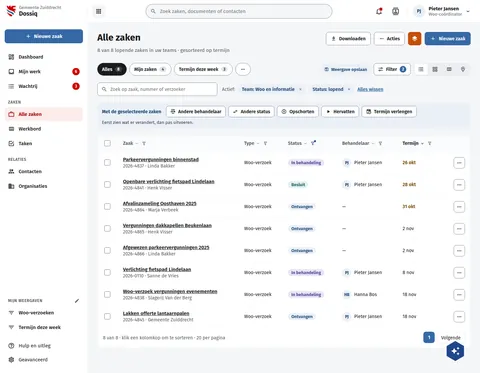
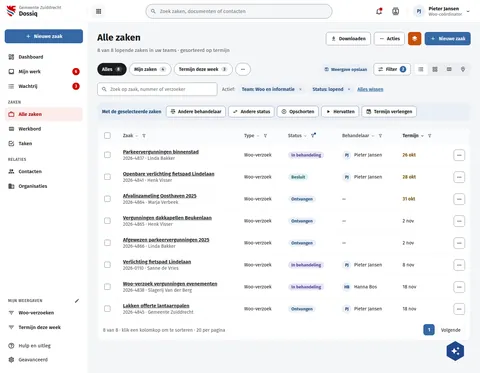
fix(screens): the case lists' bulk band draws no hint line, as decided on 22 Oct (#565)
The band is its lead and its buttons on the index boards (decision 22 Oct,
nextcloud-vue 446b2dbd87 hides the hint in the board look); DqZaken and
DqZakenSorteren still drew "Eerst zien wat er verandert, dan pas
uitvoeren.", on DqZaken as a 23px second line. DqZaken's band is 54px, the
table 20px under it.

Assisted-by: ClaudeCode:claude-opus-5-5

diff --git a/preview/screens/boards/DqZakenSorteren.html b/preview/screens/boards/DqZakenSorteren.html
@@ -186,7 +186,7 @@ a{color:var(--sc-primary, #3669a5)}a:hover{color:var(--sc-primary-deep, #234a78)
           <span style="display: inline-flex; align-items: center; gap: 6px; height: 30px; padding: 0 6px 0 12px; border-radius: 15px; background: var(--sc-primary-light, #eaf0f7); color: var(--sc-primary-deep, #234a78); font-weight: 600">Status: lopend<button type="button" aria-label="Filter verwijderen: Status: lopend" style="width: 22px; height: 22px; border: 0; border-radius: 11px; background: transparent; color: var(--sc-primary-deep, #234a78); display: inline-flex; align-items: center; justify-content: center"><svg width="14" height="14" viewbox="0 0 24 24" fill="currentColor"><path d="M19,6.41L17.59,5L12,10.59L6.41,5L5,6.41L10.59,12L5,17.59L6.41,19L12,13.41L17.59,19L19,17.59L13.41,12L19,6.41Z"></path></svg></button></span>
           <a href="#" style="font-weight: 600">Alles wissen</a>
         </div>
-        <div role="region" aria-label="Acties voor de selectie" style="display: flex; flex-wrap: wrap; gap: 8px; align-items: center; padding: 10px 14px; border-radius: 10px; background: var(--sc-primary-light, #eaf0f7); color: var(--sc-primary-deep, #234a78); font-size: 14px"><strong style="margin-right: 6px">Met de geselecteerde zaken</strong><button type="button" style="display: inline-flex; align-items: center; gap: 8px; height: 34px; padding: 0 12px; border-radius: 8px; font: 600 14px var(--sc-font, 'Fira Sans'), sans-serif; white-space: nowrap; border: 1px solid var(--sc-work-field, #828a95); background: #ffffff; color: var(--sc-work-ink, #1b1c1d)"><svg width="16" height="16" viewbox="0 0 24 24" fill="currentColor" aria-hidden="true"><path d="M16 9C22 9 22 13 22 13V15H16V13C16 13 16 11.31 14.85 9.8C14.68 9.57 14.47 9.35 14.25 9.14C14.77 9.06 15.34 9 16 9M8 11C11.5 11 11.94 12.56 12 13H4C4.06 12.56 4.5 11 8 11M8 9C2 9 2 13 2 13V15H14V13C14 13 14 9 8 9M9 17V19H15V17L18 20L15 23V21H9V23L6 20L9 17M8 3C8.55 3 9 3.45 9 4S8.55 5 8 5 7 4.55 7 4 7.45 3 8 3M8 1C6.34 1 5 2.34 5 4S6.34 7 8 7 11 5.66 11 4 9.66 1 8 1M16 1C14.34 1 13 2.34 13 4S14.34 7 16 7 19 5.66 19 4 17.66 1 16 1Z"></path></svg>Andere behandelaar</button><button type="button" style="display: inline-flex; align-items: center; gap: 8px; height: 34px; padding: 0 12px; border-radius: 8px; font: 600 14px var(--sc-font, 'Fira Sans'), sans-serif; white-space: nowrap; border: 1px solid var(--sc-work-field, #828a95); background: #ffffff; color: var(--sc-work-ink, #1b1c1d)"><svg width="16" height="16" viewbox="0 0 24 24" fill="currentColor" aria-hidden="true"><path d="M21,9L17,5V8H10V10H17V13M7,11L3,15L7,19V16H14V14H7V11Z"></path></svg>Andere status</button><button type="button" style="display: inline-flex; align-items: center; gap: 8px; height: 34px; padding: 0 12px; border-radius: 8px; font: 600 14px var(--sc-font, 'Fira Sans'), sans-serif; white-space: nowrap; border: 1px solid var(--sc-work-field, #828a95); background: #ffffff; color: var(--sc-work-ink, #1b1c1d)"><svg width="16" height="16" viewbox="0 0 24 24" fill="currentColor" aria-hidden="true"><path d="M13,16V8H15V16H13M9,16V8H11V16H9M12,2A10,10 0 0,1 22,12A10,10 0 0,1 12,22A10,10 0 0,1 2,12A10,10 0 0,1 12,2M12,4A8,8 0 0,0 4,12A8,8 0 0,0 12,20A8,8 0 0,0 20,12A8,8 0 0,0 12,4Z"></path></svg>Opschorten</button><button type="button" style="display: inline-flex; align-items: center; gap: 8px; height: 34px; padding: 0 12px; border-radius: 8px; font: 600 14px var(--sc-font, 'Fira Sans'), sans-serif; white-space: nowrap; border: 1px solid var(--sc-work-field, #828a95); background: #ffffff; color: var(--sc-work-ink, #1b1c1d)"><svg width="16" height="16" viewbox="0 0 24 24" fill="currentColor" aria-hidden="true"><path d="M8,5.14V19.14L19,12.14L8,5.14Z"></path></svg>Hervatten</button><button type="button" style="display: inline-flex; align-items: center; gap: 8px; height: 34px; padding: 0 12px; border-radius: 8px; font: 600 14px var(--sc-font, 'Fira Sans'), sans-serif; white-space: nowrap; border: 1px solid var(--sc-work-field, #828a95); background: #ffffff; color: var(--sc-work-ink, #1b1c1d)"><svg width="16" height="16" viewbox="0 0 24 24" fill="currentColor" aria-hidden="true"><path d="M15,13H16.5V15.82L18.94,17.23L18.19,18.53L15,16.69V13M19,8H5V19H9.67C9.24,18.09 9,17.07 9,16A7,7 0 0,1 16,9C17.07,9 18.09,9.24 19,9.67V8M5,21C3.89,21 3,20.1 3,19V5C3,3.89 3.89,3 5,3H6V1H8V3H16V1H18V3H19A2,2 0 0,1 21,5V11.1C22.24,12.36 23,14.09 23,16A7,7 0 0,1 16,23C14.09,23 12.36,22.24 11.1,21H5M16,11.15A4.85,4.85 0 0,0 11.15,16C11.15,18.68 13.32,20.85 16,20.85A4.85,4.85 0 0,0 20.85,16C20.85,13.32 18.68,11.15 16,11.15Z"></path></svg>Termijn verlengen</button><span style="font-size: 13px; color: var(--sc-work-text, #3d4047)">Eerst zien wat er verandert, dan pas uitvoeren.</span></div>
+        <div role="region" aria-label="Acties voor de selectie" style="display: flex; flex-wrap: wrap; gap: 8px; align-items: center; padding: 10px 14px; border-radius: 10px; background: var(--sc-primary-light, #eaf0f7); color: var(--sc-primary-deep, #234a78); font-size: 14px"><strong style="margin-right: 6px">Met de geselecteerde zaken</strong><button type="button" style="display: inline-flex; align-items: center; gap: 8px; height: 34px; padding: 0 12px; border-radius: 8px; font: 600 14px var(--sc-font, 'Fira Sans'), sans-serif; white-space: nowrap; border: 1px solid var(--sc-work-field, #828a95); background: #ffffff; color: var(--sc-work-ink, #1b1c1d)"><svg width="16" height="16" viewbox="0 0 24 24" fill="currentColor" aria-hidden="true"><path d="M16 9C22 9 22 13 22 13V15H16V13C16 13 16 11.31 14.85 9.8C14.68 9.57 14.47 9.35 14.25 9.14C14.77 9.06 15.34 9 16 9M8 11C11.5 11 11.94 12.56 12 13H4C4.06 12.56 4.5 11 8 11M8 9C2 9 2 13 2 13V15H14V13C14 13 14 9 8 9M9 17V19H15V17L18 20L15 23V21H9V23L6 20L9 17M8 3C8.55 3 9 3.45 9 4S8.55 5 8 5 7 4.55 7 4 7.45 3 8 3M8 1C6.34 1 5 2.34 5 4S6.34 7 8 7 11 5.66 11 4 9.66 1 8 1M16 1C14.34 1 13 2.34 13 4S14.34 7 16 7 19 5.66 19 4 17.66 1 16 1Z"></path></svg>Andere behandelaar</button><button type="button" style="display: inline-flex; align-items: center; gap: 8px; height: 34px; padding: 0 12px; border-radius: 8px; font: 600 14px var(--sc-font, 'Fira Sans'), sans-serif; white-space: nowrap; border: 1px solid var(--sc-work-field, #828a95); background: #ffffff; color: var(--sc-work-ink, #1b1c1d)"><svg width="16" height="16" viewbox="0 0 24 24" fill="currentColor" aria-hidden="true"><path d="M21,9L17,5V8H10V10H17V13M7,11L3,15L7,19V16H14V14H7V11Z"></path></svg>Andere status</button><button type="button" style="display: inline-flex; align-items: center; gap: 8px; height: 34px; padding: 0 12px; border-radius: 8px; font: 600 14px var(--sc-font, 'Fira Sans'), sans-serif; white-space: nowrap; border: 1px solid var(--sc-work-field, #828a95); background: #ffffff; color: var(--sc-work-ink, #1b1c1d)"><svg width="16" height="16" viewbox="0 0 24 24" fill="currentColor" aria-hidden="true"><path d="M13,16V8H15V16H13M9,16V8H11V16H9M12,2A10,10 0 0,1 22,12A10,10 0 0,1 12,22A10,10 0 0,1 2,12A10,10 0 0,1 12,2M12,4A8,8 0 0,0 4,12A8,8 0 0,0 12,20A8,8 0 0,0 20,12A8,8 0 0,0 12,4Z"></path></svg>Opschorten</button><button type="button" style="display: inline-flex; align-items: center; gap: 8px; height: 34px; padding: 0 12px; border-radius: 8px; font: 600 14px var(--sc-font, 'Fira Sans'), sans-serif; white-space: nowrap; border: 1px solid var(--sc-work-field, #828a95); background: #ffffff; color: var(--sc-work-ink, #1b1c1d)"><svg width="16" height="16" viewbox="0 0 24 24" fill="currentColor" aria-hidden="true"><path d="M8,5.14V19.14L19,12.14L8,5.14Z"></path></svg>Hervatten</button><button type="button" style="display: inline-flex; align-items: center; gap: 8px; height: 34px; padding: 0 12px; border-radius: 8px; font: 600 14px var(--sc-font, 'Fira Sans'), sans-serif; white-space: nowrap; border: 1px solid var(--sc-work-field, #828a95); background: #ffffff; color: var(--sc-work-ink, #1b1c1d)"><svg width="16" height="16" viewbox="0 0 24 24" fill="currentColor" aria-hidden="true"><path d="M15,13H16.5V15.82L18.94,17.23L18.19,18.53L15,16.69V13M19,8H5V19H9.67C9.24,18.09 9,17.07 9,16A7,7 0 0,1 16,9C17.07,9 18.09,9.24 19,9.67V8M5,21C3.89,21 3,20.1 3,19V5C3,3.89 3.89,3 5,3H6V1H8V3H16V1H18V3H19A2,2 0 0,1 21,5V11.1C22.24,12.36 23,14.09 23,16A7,7 0 0,1 16,23C14.09,23 12.36,22.24 11.1,21H5M16,11.15A4.85,4.85 0 0,0 11.15,16C11.15,18.68 13.32,20.85 16,20.85A4.85,4.85 0 0,0 20.85,16C20.85,13.32 18.68,11.15 16,11.15Z"></path></svg>Termijn verlengen</button></div>
         <div style="display: grid; grid-template-columns: repeat(auto-fill, minmax(240px, 1fr)); gap: 16px">
           
             <article style="background: #ffffff; border: 1px solid var(--sc-work-line, #e4e6ea); border-radius: 12px; padding: 20px 22px; display: flex; flex-direction: column; gap: 10px">

diff --git a/preview/screens/boards/DqZaken.html b/preview/screens/boards/DqZaken.html
@@ -186,7 +186,7 @@ a{color:var(--sc-primary, #3669a5)}a:hover{color:var(--sc-primary-deep, #234a78)
           <span style="display: inline-flex; align-items: center; gap: 6px; height: 30px; padding: 0 6px 0 12px; border-radius: 15px; background: var(--sc-primary-light, #eaf0f7); color: var(--sc-primary-deep, #234a78); font-weight: 600">Status: lopend<button type="button" aria-label="Filter verwijderen: Status: lopend" style="width: 22px; height: 22px; border: 0; border-radius: 11px; background: transparent; color: var(--sc-primary-deep, #234a78); display: inline-flex; align-items: center; justify-content: center"><svg width="14" height="14" viewbox="0 0 24 24" fill="currentColor"><path d="M19,6.41L17.59,5L12,10.59L6.41,5L5,6.41L10.59,12L5,17.59L6.41,19L12,13.41L17.59,19L19,17.59L13.41,12L19,6.41Z"></path></svg></button></span>
           <a href="#" style="font-weight: 600">Alles wissen</a>
         </div>
-        <div role="region" aria-label="Acties voor de selectie" style="display: flex; flex-wrap: wrap; gap: 8px; align-items: center; padding: 10px 14px; border-radius: 10px; background: var(--sc-primary-light, #eaf0f7); color: var(--sc-primary-deep, #234a78); font-size: 14px"><strong style="margin-right: 6px">Met de geselecteerde zaken</strong><button type="button" style="display: inline-flex; align-items: center; gap: 8px; height: 34px; padding: 0 12px; border-radius: 8px; font: 600 14px var(--sc-font, 'Fira Sans'), sans-serif; white-space: nowrap; border: 1px solid var(--sc-work-field, #828a95); background: #ffffff; color: var(--sc-work-ink, #1b1c1d)"><svg width="16" height="16" viewbox="0 0 24 24" fill="currentColor" aria-hidden="true"><path d="M16 9C22 9 22 13 22 13V15H16V13C16 13 16 11.31 14.85 9.8C14.68 9.57 14.47 9.35 14.25 9.14C14.77 9.06 15.34 9 16 9M8 11C11.5 11 11.94 12.56 12 13H4C4.06 12.56 4.5 11 8 11M8 9C2 9 2 13 2 13V15H14V13C14 13 14 9 8 9M9 17V19H15V17L18 20L15 23V21H9V23L6 20L9 17M8 3C8.55 3 9 3.45 9 4S8.55 5 8 5 7 4.55 7 4 7.45 3 8 3M8 1C6.34 1 5 2.34 5 4S6.34 7 8 7 11 5.66 11 4 9.66 1 8 1M16 1C14.34 1 13 2.34 13 4S14.34 7 16 7 19 5.66 19 4 17.66 1 16 1Z"></path></svg>Andere behandelaar</button><button type="button" style="display: inline-flex; align-items: center; gap: 8px; height: 34px; padding: 0 12px; border-radius: 8px; font: 600 14px var(--sc-font, 'Fira Sans'), sans-serif; white-space: nowrap; border: 1px solid var(--sc-work-field, #828a95); background: #ffffff; color: var(--sc-work-ink, #1b1c1d)"><svg width="16" height="16" viewbox="0 0 24 24" fill="currentColor" aria-hidden="true"><path d="M21,9L17,5V8H10V10H17V13M7,11L3,15L7,19V16H14V14H7V11Z"></path></svg>Andere status</button><button type="button" style="display: inline-flex; align-items: center; gap: 8px; height: 34px; padding: 0 12px; border-radius: 8px; font: 600 14px var(--sc-font, 'Fira Sans'), sans-serif; white-space: nowrap; border: 1px solid var(--sc-work-field, #828a95); background: #ffffff; color: var(--sc-work-ink, #1b1c1d)"><svg width="16" height="16" viewbox="0 0 24 24" fill="currentColor" aria-hidden="true"><path d="M13,16V8H15V16H13M9,16V8H11V16H9M12,2A10,10 0 0,1 22,12A10,10 0 0,1 12,22A10,10 0 0,1 2,12A10,10 0 0,1 12,2M12,4A8,8 0 0,0 4,12A8,8 0 0,0 12,20A8,8 0 0,0 20,12A8,8 0 0,0 12,4Z"></path></svg>Opschorten</button><button type="button" style="display: inline-flex; align-items: center; gap: 8px; height: 34px; padding: 0 12px; border-radius: 8px; font: 600 14px var(--sc-font, 'Fira Sans'), sans-serif; white-space: nowrap; border: 1px solid var(--sc-work-field, #828a95); background: #ffffff; color: var(--sc-work-ink, #1b1c1d)"><svg width="16" height="16" viewbox="0 0 24 24" fill="currentColor" aria-hidden="true"><path d="M8,5.14V19.14L19,12.14L8,5.14Z"></path></svg>Hervatten</button><button type="button" style="display: inline-flex; align-items: center; gap: 8px; height: 34px; padding: 0 12px; border-radius: 8px; font: 600 14px var(--sc-font, 'Fira Sans'), sans-serif; white-space: nowrap; border: 1px solid var(--sc-work-field, #828a95); background: #ffffff; color: var(--sc-work-ink, #1b1c1d)"><svg width="16" height="16" viewbox="0 0 24 24" fill="currentColor" aria-hidden="true"><path d="M15,13H16.5V15.82L18.94,17.23L18.19,18.53L15,16.69V13M19,8H5V19H9.67C9.24,18.09 9,17.07 9,16A7,7 0 0,1 16,9C17.07,9 18.09,9.24 19,9.67V8M5,21C3.89,21 3,20.1 3,19V5C3,3.89 3.89,3 5,3H6V1H8V3H16V1H18V3H19A2,2 0 0,1 21,5V11.1C22.24,12.36 23,14.09 23,16A7,7 0 0,1 16,23C14.09,23 12.36,22.24 11.1,21H5M16,11.15A4.85,4.85 0 0,0 11.15,16C11.15,18.68 13.32,20.85 16,20.85A4.85,4.85 0 0,0 20.85,16C20.85,13.32 18.68,11.15 16,11.15Z"></path></svg>Termijn verlengen</button><span style="font-size: 13px; color: var(--sc-work-text, #3d4047)">Eerst zien wat er verandert, dan pas uitvoeren.</span></div>
+        <div role="region" aria-label="Acties voor de selectie" style="display: flex; flex-wrap: wrap; gap: 8px; align-items: center; padding: 10px 14px; border-radius: 10px; background: var(--sc-primary-light, #eaf0f7); color: var(--sc-primary-deep, #234a78); font-size: 14px"><strong style="margin-right: 6px">Met de geselecteerde zaken</strong><button type="button" style="display: inline-flex; align-items: center; gap: 8px; height: 34px; padding: 0 12px; border-radius: 8px; font: 600 14px var(--sc-font, 'Fira Sans'), sans-serif; white-space: nowrap; border: 1px solid var(--sc-work-field, #828a95); background: #ffffff; color: var(--sc-work-ink, #1b1c1d)"><svg width="16" height="16" viewbox="0 0 24 24" fill="currentColor" aria-hidden="true"><path d="M16 9C22 9 22 13 22 13V15H16V13C16 13 16 11.31 14.85 9.8C14.68 9.57 14.47 9.35 14.25 9.14C14.77 9.06 15.34 9 16 9M8 11C11.5 11 11.94 12.56 12 13H4C4.06 12.56 4.5 11 8 11M8 9C2 9 2 13 2 13V15H14V13C14 13 14 9 8 9M9 17V19H15V17L18 20L15 23V21H9V23L6 20L9 17M8 3C8.55 3 9 3.45 9 4S8.55 5 8 5 7 4.55 7 4 7.45 3 8 3M8 1C6.34 1 5 2.34 5 4S6.34 7 8 7 11 5.66 11 4 9.66 1 8 1M16 1C14.34 1 13 2.34 13 4S14.34 7 16 7 19 5.66 19 4 17.66 1 16 1Z"></path></svg>Andere behandelaar</button><button type="button" style="display: inline-flex; align-items: center; gap: 8px; height: 34px; padding: 0 12px; border-radius: 8px; font: 600 14px var(--sc-font, 'Fira Sans'), sans-serif; white-space: nowrap; border: 1px solid var(--sc-work-field, #828a95); background: #ffffff; color: var(--sc-work-ink, #1b1c1d)"><svg width="16" height="16" viewbox="0 0 24 24" fill="currentColor" aria-hidden="true"><path d="M21,9L17,5V8H10V10H17V13M7,11L3,15L7,19V16H14V14H7V11Z"></path></svg>Andere status</button><button type="button" style="display: inline-flex; align-items: center; gap: 8px; height: 34px; padding: 0 12px; border-radius: 8px; font: 600 14px var(--sc-font, 'Fira Sans'), sans-serif; white-space: nowrap; border: 1px solid var(--sc-work-field, #828a95); background: #ffffff; color: var(--sc-work-ink, #1b1c1d)"><svg width="16" height="16" viewbox="0 0 24 24" fill="currentColor" aria-hidden="true"><path d="M13,16V8H15V16H13M9,16V8H11V16H9M12,2A10,10 0 0,1 22,12A10,10 0 0,1 12,22A10,10 0 0,1 2,12A10,10 0 0,1 12,2M12,4A8,8 0 0,0 4,12A8,8 0 0,0 12,20A8,8 0 0,0 20,12A8,8 0 0,0 12,4Z"></path></svg>Opschorten</button><button type="button" style="display: inline-flex; align-items: center; gap: 8px; height: 34px; padding: 0 12px; border-radius: 8px; font: 600 14px var(--sc-font, 'Fira Sans'), sans-serif; white-space: nowrap; border: 1px solid var(--sc-work-field, #828a95); background: #ffffff; color: var(--sc-work-ink, #1b1c1d)"><svg width="16" height="16" viewbox="0 0 24 24" fill="currentColor" aria-hidden="true"><path d="M8,5.14V19.14L19,12.14L8,5.14Z"></path></svg>Hervatten</button><button type="button" style="display: inline-flex; align-items: center; gap: 8px; height: 34px; padding: 0 12px; border-radius: 8px; font: 600 14px var(--sc-font, 'Fira Sans'), sans-serif; white-space: nowrap; border: 1px solid var(--sc-work-field, #828a95); background: #ffffff; color: var(--sc-work-ink, #1b1c1d)"><svg width="16" height="16" viewbox="0 0 24 24" fill="currentColor" aria-hidden="true"><path d="M15,13H16.5V15.82L18.94,17.23L18.19,18.53L15,16.69V13M19,8H5V19H9.67C9.24,18.09 9,17.07 9,16A7,7 0 0,1 16,9C17.07,9 18.09,9.24 19,9.67V8M5,21C3.89,21 3,20.1 3,19V5C3,3.89 3.89,3 5,3H6V1H8V3H16V1H18V3H19A2,2 0 0,1 21,5V11.1C22.24,12.36 23,14.09 23,16A7,7 0 0,1 16,23C14.09,23 12.36,22.24 11.1,21H5M16,11.15A4.85,4.85 0 0,0 11.15,16C11.15,18.68 13.32,20.85 16,20.85A4.85,4.85 0 0,0 20.85,16C20.85,13.32 18.68,11.15 16,11.15Z"></path></svg>Termijn verlengen</button></div>
         <div style="background: #ffffff; border: 1px solid var(--sc-work-line, #e4e6ea); border-radius: 12px; overflow: hidden">
           <div style="overflow-x: auto">
             <table style="border-collapse: collapse; width: 100%; min-width: 860px; font-size: 14px">

diff --git a/screens-src/zuiddrecht/DqZakenSorteren.dc.html b/screens-src/zuiddrecht/DqZakenSorteren.dc.html
@@ -58,7 +58,7 @@ a{color:#3669a5}a:hover{color:#234a78}
           <span style="display: inline-flex; align-items: center; gap: 6px; height: 30px; padding: 0 6px 0 12px; border-radius: 15px; background: #eaf0f7; color: #234a78; font-weight: 600">Status: lopend<button type="button" aria-label="Filter verwijderen: Status: lopend" style="width: 22px; height: 22px; border: 0; border-radius: 11px; background: transparent; color: #234a78; display: inline-flex; align-items: center; justify-content: center"><svg width="14" height="14" viewBox="0 0 24 24" fill="currentColor"><path d="M19,6.41L17.59,5L12,10.59L6.41,5L5,6.41L10.59,12L5,17.59L6.41,19L12,13.41L17.59,19L19,17.59L13.41,12L19,6.41Z"></path></svg></button></span>
           <a href="#" style="font-weight: 600">Alles wissen</a>
         </div>
-        <div role="region" aria-label="Acties voor de selectie" style="display: flex; flex-wrap: wrap; gap: 8px; align-items: center; padding: 10px 14px; border-radius: 10px; background: #eaf0f7; color: #234a78; font-size: 14px"><strong style="margin-right: 6px">Met de geselecteerde zaken</strong><button type="button" style="display: inline-flex; align-items: center; gap: 8px; height: 34px; padding: 0 12px; border-radius: 8px; font: 600 14px 'Fira Sans', sans-serif; white-space: nowrap; border: 1px solid #828a95; background: #ffffff; color: #1b1c1d"><svg width="16" height="16" viewBox="0 0 24 24" fill="currentColor" aria-hidden="true"><path d="M16 9C22 9 22 13 22 13V15H16V13C16 13 16 11.31 14.85 9.8C14.68 9.57 14.47 9.35 14.25 9.14C14.77 9.06 15.34 9 16 9M8 11C11.5 11 11.94 12.56 12 13H4C4.06 12.56 4.5 11 8 11M8 9C2 9 2 13 2 13V15H14V13C14 13 14 9 8 9M9 17V19H15V17L18 20L15 23V21H9V23L6 20L9 17M8 3C8.55 3 9 3.45 9 4S8.55 5 8 5 7 4.55 7 4 7.45 3 8 3M8 1C6.34 1 5 2.34 5 4S6.34 7 8 7 11 5.66 11 4 9.66 1 8 1M16 1C14.34 1 13 2.34 13 4S14.34 7 16 7 19 5.66 19 4 17.66 1 16 1Z"></path></svg>Andere behandelaar</button><button type="button" style="display: inline-flex; align-items: center; gap: 8px; height: 34px; padding: 0 12px; border-radius: 8px; font: 600 14px 'Fira Sans', sans-serif; white-space: nowrap; border: 1px solid #828a95; background: #ffffff; color: #1b1c1d"><svg width="16" height="16" viewBox="0 0 24 24" fill="currentColor" aria-hidden="true"><path d="M21,9L17,5V8H10V10H17V13M7,11L3,15L7,19V16H14V14H7V11Z"></path></svg>Andere status</button><button type="button" style="display: inline-flex; align-items: center; gap: 8px; height: 34px; padding: 0 12px; border-radius: 8px; font: 600 14px 'Fira Sans', sans-serif; white-space: nowrap; border: 1px solid #828a95; background: #ffffff; color: #1b1c1d"><svg width="16" height="16" viewBox="0 0 24 24" fill="currentColor" aria-hidden="true"><path d="M13,16V8H15V16H13M9,16V8H11V16H9M12,2A10,10 0 0,1 22,12A10,10 0 0,1 12,22A10,10 0 0,1 2,12A10,10 0 0,1 12,2M12,4A8,8 0 0,0 4,12A8,8 0 0,0 12,20A8,8 0 0,0 20,12A8,8 0 0,0 12,4Z"></path></svg>Opschorten</button><button type="button" style="display: inline-flex; align-items: center; gap: 8px; height: 34px; padding: 0 12px; border-radius: 8px; font: 600 14px 'Fira Sans', sans-serif; white-space: nowrap; border: 1px solid #828a95; background: #ffffff; color: #1b1c1d"><svg width="16" height="16" viewBox="0 0 24 24" fill="currentColor" aria-hidden="true"><path d="M8,5.14V19.14L19,12.14L8,5.14Z"></path></svg>Hervatten</button><button type="button" style="display: inline-flex; align-items: center; gap: 8px; height: 34px; padding: 0 12px; border-radius: 8px; font: 600 14px 'Fira Sans', sans-serif; white-space: nowrap; border: 1px solid #828a95; background: #ffffff; color: #1b1c1d"><svg width="16" height="16" viewBox="0 0 24 24" fill="currentColor" aria-hidden="true"><path d="M15,13H16.5V15.82L18.94,17.23L18.19,18.53L15,16.69V13M19,8H5V19H9.67C9.24,18.09 9,17.07 9,16A7,7 0 0,1 16,9C17.07,9 18.09,9.24 19,9.67V8M5,21C3.89,21 3,20.1 3,19V5C3,3.89 3.89,3 5,3H6V1H8V3H16V1H18V3H19A2,2 0 0,1 21,5V11.1C22.24,12.36 23,14.09 23,16A7,7 0 0,1 16,23C14.09,23 12.36,22.24 11.1,21H5M16,11.15A4.85,4.85 0 0,0 11.15,16C11.15,18.68 13.32,20.85 16,20.85A4.85,4.85 0 0,0 20.85,16C20.85,13.32 18.68,11.15 16,11.15Z"></path></svg>Termijn verlengen</button><span style="font-size: 13px; color: #3d4047">Eerst zien wat er verandert, dan pas uitvoeren.</span></div>
+        <div role="region" aria-label="Acties voor de selectie" style="display: flex; flex-wrap: wrap; gap: 8px; align-items: center; padding: 10px 14px; border-radius: 10px; background: #eaf0f7; color: #234a78; font-size: 14px"><strong style="margin-right: 6px">Met de geselecteerde zaken</strong><button type="button" style="display: inline-flex; align-items: center; gap: 8px; height: 34px; padding: 0 12px; border-radius: 8px; font: 600 14px 'Fira Sans', sans-serif; white-space: nowrap; border: 1px solid #828a95; background: #ffffff; color: #1b1c1d"><svg width="16" height="16" viewBox="0 0 24 24" fill="currentColor" aria-hidden="true"><path d="M16 9C22 9 22 13 22 13V15H16V13C16 13 16 11.31 14.85 9.8C14.68 9.57 14.47 9.35 14.25 9.14C14.77 9.06 15.34 9 16 9M8 11C11.5 11 11.94 12.56 12 13H4C4.06 12.56 4.5 11 8 11M8 9C2 9 2 13 2 13V15H14V13C14 13 14 9 8 9M9 17V19H15V17L18 20L15 23V21H9V23L6 20L9 17M8 3C8.55 3 9 3.45 9 4S8.55 5 8 5 7 4.55 7 4 7.45 3 8 3M8 1C6.34 1 5 2.34 5 4S6.34 7 8 7 11 5.66 11 4 9.66 1 8 1M16 1C14.34 1 13 2.34 13 4S14.34 7 16 7 19 5.66 19 4 17.66 1 16 1Z"></path></svg>Andere behandelaar</button><button type="button" style="display: inline-flex; align-items: center; gap: 8px; height: 34px; padding: 0 12px; border-radius: 8px; font: 600 14px 'Fira Sans', sans-serif; white-space: nowrap; border: 1px solid #828a95; background: #ffffff; color: #1b1c1d"><svg width="16" height="16" viewBox="0 0 24 24" fill="currentColor" aria-hidden="true"><path d="M21,9L17,5V8H10V10H17V13M7,11L3,15L7,19V16H14V14H7V11Z"></path></svg>Andere status</button><button type="button" style="display: inline-flex; align-items: center; gap: 8px; height: 34px; padding: 0 12px; border-radius: 8px; font: 600 14px 'Fira Sans', sans-serif; white-space: nowrap; border: 1px solid #828a95; background: #ffffff; color: #1b1c1d"><svg width="16" height="16" viewBox="0 0 24 24" fill="currentColor" aria-hidden="true"><path d="M13,16V8H15V16H13M9,16V8H11V16H9M12,2A10,10 0 0,1 22,12A10,10 0 0,1 12,22A10,10 0 0,1 2,12A10,10 0 0,1 12,2M12,4A8,8 0 0,0 4,12A8,8 0 0,0 12,20A8,8 0 0,0 20,12A8,8 0 0,0 12,4Z"></path></svg>Opschorten</button><button type="button" style="display: inline-flex; align-items: center; gap: 8px; height: 34px; padding: 0 12px; border-radius: 8px; font: 600 14px 'Fira Sans', sans-serif; white-space: nowrap; border: 1px solid #828a95; background: #ffffff; color: #1b1c1d"><svg width="16" height="16" viewBox="0 0 24 24" fill="currentColor" aria-hidden="true"><path d="M8,5.14V19.14L19,12.14L8,5.14Z"></path></svg>Hervatten</button><button type="button" style="display: inline-flex; align-items: center; gap: 8px; height: 34px; padding: 0 12px; border-radius: 8px; font: 600 14px 'Fira Sans', sans-serif; white-space: nowrap; border: 1px solid #828a95; background: #ffffff; color: #1b1c1d"><svg width="16" height="16" viewBox="0 0 24 24" fill="currentColor" aria-hidden="true"><path d="M15,13H16.5V15.82L18.94,17.23L18.19,18.53L15,16.69V13M19,8H5V19H9.67C9.24,18.09 9,17.07 9,16A7,7 0 0,1 16,9C17.07,9 18.09,9.24 19,9.67V8M5,21C3.89,21 3,20.1 3,19V5C3,3.89 3.89,3 5,3H6V1H8V3H16V1H18V3H19A2,2 0 0,1 21,5V11.1C22.24,12.36 23,14.09 23,16A7,7 0 0,1 16,23C14.09,23 12.36,22.24 11.1,21H5M16,11.15A4.85,4.85 0 0,0 11.15,16C11.15,18.68 13.32,20.85 16,20.85A4.85,4.85 0 0,0 20.85,16C20.85,13.32 18.68,11.15 16,11.15Z"></path></svg>Termijn verlengen</button></div>
         <div style="display: grid; grid-template-columns: repeat(auto-fill, minmax(240px, 1fr)); gap: 16px">
           <sc-for list="{{ rows }}" as="r" hint-placeholder-count="8">
             <article style="background: #ffffff; border: 1px solid #e4e6ea; border-radius: 12px; padding: 20px 22px; display: flex; flex-direction: column; gap: 10px">

diff --git a/screens-src/zuiddrecht/DqZaken.dc.html b/screens-src/zuiddrecht/DqZaken.dc.html
@@ -58,7 +58,7 @@ a{color:#3669a5}a:hover{color:#234a78}
           <span style="display: inline-flex; align-items: center; gap: 6px; height: 30px; padding: 0 6px 0 12px; border-radius: 15px; background: #eaf0f7; color: #234a78; font-weight: 600">Status: lopend<button type="button" aria-label="Filter verwijderen: Status: lopend" style="width: 22px; height: 22px; border: 0; border-radius: 11px; background: transparent; color: #234a78; display: inline-flex; align-items: center; justify-content: center"><svg width="14" height="14" viewBox="0 0 24 24" fill="currentColor"><path d="M19,6.41L17.59,5L12,10.59L6.41,5L5,6.41L10.59,12L5,17.59L6.41,19L12,13.41L17.59,19L19,17.59L13.41,12L19,6.41Z"></path></svg></button></span>
           <a href="#" style="font-weight: 600">Alles wissen</a>
         </div>
-        <div role="region" aria-label="Acties voor de selectie" style="display: flex; flex-wrap: wrap; gap: 8px; align-items: center; padding: 10px 14px; border-radius: 10px; background: #eaf0f7; color: #234a78; font-size: 14px"><strong style="margin-right: 6px">Met de geselecteerde zaken</strong><button type="button" style="display: inline-flex; align-items: center; gap: 8px; height: 34px; padding: 0 12px; border-radius: 8px; font: 600 14px 'Fira Sans', sans-serif; white-space: nowrap; border: 1px solid #828a95; background: #ffffff; color: #1b1c1d"><svg width="16" height="16" viewBox="0 0 24 24" fill="currentColor" aria-hidden="true"><path d="M16 9C22 9 22 13 22 13V15H16V13C16 13 16 11.31 14.85 9.8C14.68 9.57 14.47 9.35 14.25 9.14C14.77 9.06 15.34 9 16 9M8 11C11.5 11 11.94 12.56 12 13H4C4.06 12.56 4.5 11 8 11M8 9C2 9 2 13 2 13V15H14V13C14 13 14 9 8 9M9 17V19H15V17L18 20L15 23V21H9V23L6 20L9 17M8 3C8.55 3 9 3.45 9 4S8.55 5 8 5 7 4.55 7 4 7.45 3 8 3M8 1C6.34 1 5 2.34 5 4S6.34 7 8 7 11 5.66 11 4 9.66 1 8 1M16 1C14.34 1 13 2.34 13 4S14.34 7 16 7 19 5.66 19 4 17.66 1 16 1Z"></path></svg>Andere behandelaar</button><button type="button" style="display: inline-flex; align-items: center; gap: 8px; height: 34px; padding: 0 12px; border-radius: 8px; font: 600 14px 'Fira Sans', sans-serif; white-space: nowrap; border: 1px solid #828a95; background: #ffffff; color: #1b1c1d"><svg width="16" height="16" viewBox="0 0 24 24" fill="currentColor" aria-hidden="true"><path d="M21,9L17,5V8H10V10H17V13M7,11L3,15L7,19V16H14V14H7V11Z"></path></svg>Andere status</button><button type="button" style="display: inline-flex; align-items: center; gap: 8px; height: 34px; padding: 0 12px; border-radius: 8px; font: 600 14px 'Fira Sans', sans-serif; white-space: nowrap; border: 1px solid #828a95; background: #ffffff; color: #1b1c1d"><svg width="16" height="16" viewBox="0 0 24 24" fill="currentColor" aria-hidden="true"><path d="M13,16V8H15V16H13M9,16V8H11V16H9M12,2A10,10 0 0,1 22,12A10,10 0 0,1 12,22A10,10 0 0,1 2,12A10,10 0 0,1 12,2M12,4A8,8 0 0,0 4,12A8,8 0 0,0 12,20A8,8 0 0,0 20,12A8,8 0 0,0 12,4Z"></path></svg>Opschorten</button><button type="button" style="display: inline-flex; align-items: center; gap: 8px; height: 34px; padding: 0 12px; border-radius: 8px; font: 600 14px 'Fira Sans', sans-serif; white-space: nowrap; border: 1px solid #828a95; background: #ffffff; color: #1b1c1d"><svg width="16" height="16" viewBox="0 0 24 24" fill="currentColor" aria-hidden="true"><path d="M8,5.14V19.14L19,12.14L8,5.14Z"></path></svg>Hervatten</button><button type="button" style="display: inline-flex; align-items: center; gap: 8px; height: 34px; padding: 0 12px; border-radius: 8px; font: 600 14px 'Fira Sans', sans-serif; white-space: nowrap; border: 1px solid #828a95; background: #ffffff; color: #1b1c1d"><svg width="16" height="16" viewBox="0 0 24 24" fill="currentColor" aria-hidden="true"><path d="M15,13H16.5V15.82L18.94,17.23L18.19,18.53L15,16.69V13M19,8H5V19H9.67C9.24,18.09 9,17.07 9,16A7,7 0 0,1 16,9C17.07,9 18.09,9.24 19,9.67V8M5,21C3.89,21 3,20.1 3,19V5C3,3.89 3.89,3 5,3H6V1H8V3H16V1H18V3H19A2,2 0 0,1 21,5V11.1C22.24,12.36 23,14.09 23,16A7,7 0 0,1 16,23C14.09,23 12.36,22.24 11.1,21H5M16,11.15A4.85,4.85 0 0,0 11.15,16C11.15,18.68 13.32,20.85 16,20.85A4.85,4.85 0 0,0 20.85,16C20.85,13.32 18.68,11.15 16,11.15Z"></path></svg>Termijn verlengen</button><span style="font-size: 13px; color: #3d4047">Eerst zien wat er verandert, dan pas uitvoeren.</span></div>
+        <div role="region" aria-label="Acties voor de selectie" style="display: flex; flex-wrap: wrap; gap: 8px; align-items: center; padding: 10px 14px; border-radius: 10px; background: #eaf0f7; color: #234a78; font-size: 14px"><strong style="margin-right: 6px">Met de geselecteerde zaken</strong><button type="button" style="display: inline-flex; align-items: center; gap: 8px; height: 34px; padding: 0 12px; border-radius: 8px; font: 600 14px 'Fira Sans', sans-serif; white-space: nowrap; border: 1px solid #828a95; background: #ffffff; color: #1b1c1d"><svg width="16" height="16" viewBox="0 0 24 24" fill="currentColor" aria-hidden="true"><path d="M16 9C22 9 22 13 22 13V15H16V13C16 13 16 11.31 14.85 9.8C14.68 9.57 14.47 9.35 14.25 9.14C14.77 9.06 15.34 9 16 9M8 11C11.5 11 11.94 12.56 12 13H4C4.06 12.56 4.5 11 8 11M8 9C2 9 2 13 2 13V15H14V13C14 13 14 9 8 9M9 17V19H15V17L18 20L15 23V21H9V23L6 20L9 17M8 3C8.55 3 9 3.45 9 4S8.55 5 8 5 7 4.55 7 4 7.45 3 8 3M8 1C6.34 1 5 2.34 5 4S6.34 7 8 7 11 5.66 11 4 9.66 1 8 1M16 1C14.34 1 13 2.34 13 4S14.34 7 16 7 19 5.66 19 4 17.66 1 16 1Z"></path></svg>Andere behandelaar</button><button type="button" style="display: inline-flex; align-items: center; gap: 8px; height: 34px; padding: 0 12px; border-radius: 8px; font: 600 14px 'Fira Sans', sans-serif; white-space: nowrap; border: 1px solid #828a95; background: #ffffff; color: #1b1c1d"><svg width="16" height="16" viewBox="0 0 24 24" fill="currentColor" aria-hidden="true"><path d="M21,9L17,5V8H10V10H17V13M7,11L3,15L7,19V16H14V14H7V11Z"></path></svg>Andere status</button><button type="button" style="display: inline-flex; align-items: center; gap: 8px; height: 34px; padding: 0 12px; border-radius: 8px; font: 600 14px 'Fira Sans', sans-serif; white-space: nowrap; border: 1px solid #828a95; background: #ffffff; color: #1b1c1d"><svg width="16" height="16" viewBox="0 0 24 24" fill="currentColor" aria-hidden="true"><path d="M13,16V8H15V16H13M9,16V8H11V16H9M12,2A10,10 0 0,1 22,12A10,10 0 0,1 12,22A10,10 0 0,1 2,12A10,10 0 0,1 12,2M12,4A8,8 0 0,0 4,12A8,8 0 0,0 12,20A8,8 0 0,0 20,12A8,8 0 0,0 12,4Z"></path></svg>Opschorten</button><button type="button" style="display: inline-flex; align-items: center; gap: 8px; height: 34px; padding: 0 12px; border-radius: 8px; font: 600 14px 'Fira Sans', sans-serif; white-space: nowrap; border: 1px solid #828a95; background: #ffffff; color: #1b1c1d"><svg width="16" height="16" viewBox="0 0 24 24" fill="currentColor" aria-hidden="true"><path d="M8,5.14V19.14L19,12.14L8,5.14Z"></path></svg>Hervatten</button><button type="button" style="display: inline-flex; align-items: center; gap: 8px; height: 34px; padding: 0 12px; border-radius: 8px; font: 600 14px 'Fira Sans', sans-serif; white-space: nowrap; border: 1px solid #828a95; background: #ffffff; color: #1b1c1d"><svg width="16" height="16" viewBox="0 0 24 24" fill="currentColor" aria-hidden="true"><path d="M15,13H16.5V15.82L18.94,17.23L18.19,18.53L15,16.69V13M19,8H5V19H9.67C9.24,18.09 9,17.07 9,16A7,7 0 0,1 16,9C17.07,9 18.09,9.24 19,9.67V8M5,21C3.89,21 3,20.1 3,19V5C3,3.89 3.89,3 5,3H6V1H8V3H16V1H18V3H19A2,2 0 0,1 21,5V11.1C22.24,12.36 23,14.09 23,16A7,7 0 0,1 16,23C14.09,23 12.36,22.24 11.1,21H5M16,11.15A4.85,4.85 0 0,0 11.15,16C11.15,18.68 13.32,20.85 16,20.85A4.85,4.85 0 0,0 20.85,16C20.85,13.32 18.68,11.15 16,11.15Z"></path></svg>Termijn verlengen</button></div>
         <div style="background: #ffffff; border: 1px solid #e4e6ea; border-radius: 12px; overflow: hidden">
           <div style="overflow-x: auto">
             <table style="border-collapse: collapse; width: 100%; min-width: 860px; font-size: 14px">
